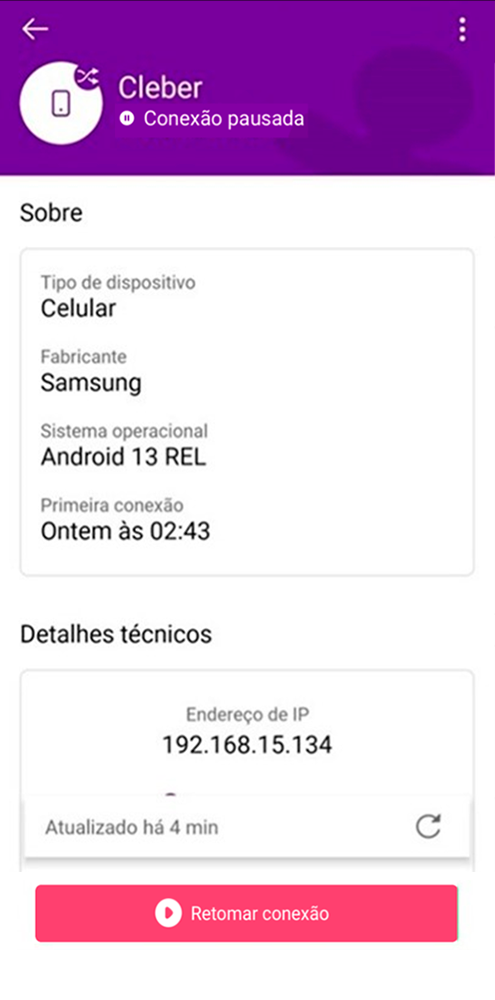
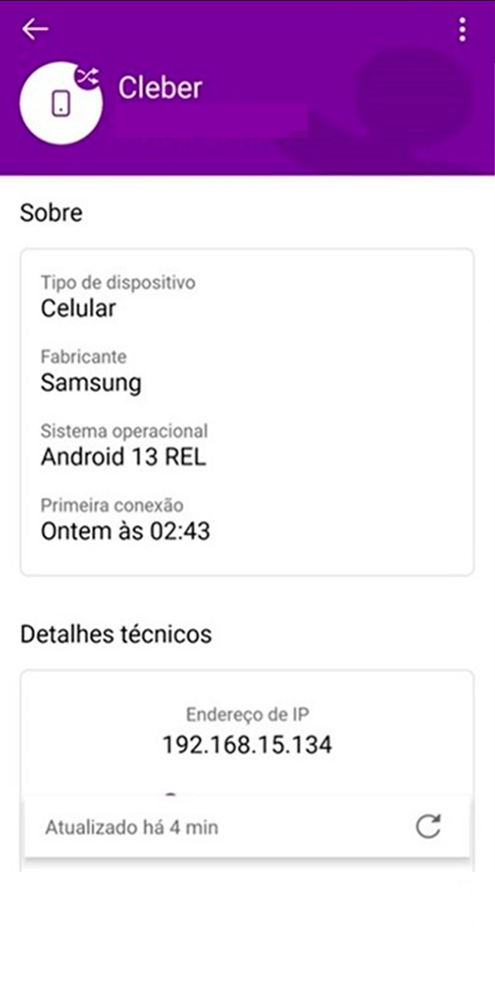
commit ajustes telas 61, 65 e 66.

Changed region(s): [[0.0606, 0.868, 0.9394, 0.961], [0.2424, 0.093, 0.6061, 0.124]]

diff --git a/course/screens/61/tela.js b/course/screens/61/tela.js
@@ -1,33 +1,36 @@
 function init() {
-    // refers
-    let mascara = document.querySelector(".mascara_balao");
-    let balao = document.querySelector(".balao.b0");
-    let btFecharBalao = document.querySelector(".balao button.fechar");
+  // refers
+  let mascara = document.querySelector(".mascara_balao");
+  let balao = document.querySelector(".balao.b0");
+  let btFecharBalao = document.querySelector(".balao button.fechar");
 
-    let destaques = document.querySelectorAll(".destaque");
+  let destaques = document.querySelectorAll(".foco");
 
-    // balloon events
-    let showDestaque = (dest) => {
-      destaques[dest].style.display = "block";
-    }
+  // balloon events
+  let showDestaque = (dest) => {
+    destaques[dest].classList.add('pulse')
+  }
 
-    let handleCloseBalloon = (e) => {
-      e.target.parentNode.style.display = "none";
-      mascara.style.display = "none";
+  showDestaque(0);
 
-      showDestaque(1);
-    }
-    btFecharBalao.addEventListener("click", handleCloseBalloon);
+  let handleCloseBalloon = (e) => {
+    e.target.parentNode.style.display = "none";
+    mascara.style.display = "none";
+    destaques[1].style.cursor = 'pointer'
 
-    // destaque events
-    let handleAvancar = (e) => {
-      screen.next();
-    }
-    destaques[1].addEventListener("click", handleAvancar);
-    
-    // Animation
-    let tl = new gsap.timeline();
-    tl.fromTo(mascara, .8, { opacity: 0 }, { opacity: 1, delay: 3 });
-    tl.fromTo(destaques[0], .2, { opacity: 1 }, { opacity: 0 });
-    tl.fromTo(balao, .8, { opacity: 0 }, { opacity: 1 });
+    showDestaque(1);
+  }
+  btFecharBalao.addEventListener("click", handleCloseBalloon);
+
+  // destaque events
+  let handleAvancar = (e) => {
+    screen.next();
+  }
+  destaques[1].addEventListener("click", handleAvancar);
+
+  // Animation
+  let tl = new gsap.timeline({ onComplete: function () { destaques[0].classList.remove('pulse'); } });
+
+  tl.fromTo(mascara, .8, { opacity: 0 }, { opacity: 1, delay: 3 });
+  tl.fromTo(balao, .8, { opacity: 0 }, { opacity: 1 });
 }

diff --git a/course/screens/65/tela.js b/course/screens/65/tela.js
@@ -1,32 +1,32 @@
 function init() {
-    // refers
-    let mascara = document.querySelector(".mascara_balao");
-    let balao = document.querySelector(".balao.b0");
-    let btFecharBalao = document.querySelector(".balao button.fechar");
+  // refers
+  let mascara = document.querySelector(".mascara_balao");
+  let balao = document.querySelector(".balao.b0");
+  let btFecharBalao = document.querySelector(".balao button.fechar");
 
-    let destaque = document.querySelector(".destaque.d0");
+  let destaque = document.querySelector(".foco");
 
-    // balloon events
-    let showDestaque = _ => {
-      destaque.style.display = "block";
-    }
+  // balloon events
+  let showDestaque = _ => {
+    destaque.classList.add('pulse')
+  }
 
-    let handleCloseBalloon = (e) => {
-      e.target.parentNode.style.display = "none";
-      mascara.style.display = "none";
+  let handleCloseBalloon = (e) => {
+    e.target.parentNode.style.display = "none";
+    mascara.style.display = "none";
 
-      showDestaque();
-    }
-    btFecharBalao.addEventListener("click", handleCloseBalloon);
+    showDestaque();
+  }
+  btFecharBalao.addEventListener("click", handleCloseBalloon);
 
-    // destaque events
-    let handleAvancar = (e) => {
-      screen.next();
-    }
-    destaque.addEventListener("click", handleAvancar);
-    
-    // Animation
-    let tl = new gsap.timeline();
-    tl.fromTo(mascara, .8, { opacity: 0 }, { opacity: 1, delay: .5 });
-    tl.fromTo(balao, .8, { opacity: 0 }, { opacity: 1 });
+  // destaque events
+  let handleAvancar = (e) => {
+    screen.next();
+  }
+  destaque.addEventListener("click", handleAvancar);
+
+  // Animation
+  let tl = new gsap.timeline();
+  tl.fromTo(mascara, .8, { opacity: 0 }, { opacity: 1, delay: .5 });
+  tl.fromTo(balao, .8, { opacity: 0 }, { opacity: 1 });
 }

diff --git a/course/screens/61/tela.css b/course/screens/61/tela.css
@@ -20,19 +20,20 @@
     height: 8%;
 }
 
-.destaque.d0 {
-    left: 44%;
-    top: 12%;
-    width: 40%;
-    height: 4%;
-    border-color: #fff;
+.foco {
     cursor: default;
 }
 
-.destaque.d1 {
-    display: none;
-    left: 50%;
-    top: 91.3%;
-    width: 88%;
-    height: 8%;
+.foco.f0 {
+    top: 12%;
+    left: 43.9%;
+    width: 16.5rem;
+    height: 3rem;
+    background-image: url(../../img/btn_print_conexao_pausada.png);
+}
+
+.foco.f1 {
+    top: 91.4%;
+    width: 36.5rem;
+    background-image: url(../../img/btn_print_retomar_conexao.png);
 }

diff --git a/course/screens/66/tela.js b/course/screens/66/tela.js
@@ -1,11 +1,11 @@
 function init() {
   // refers
-  let destaque = document.querySelector(".destaque.d0");
+  let destaque = document.querySelector(".foco");
   let btnArrow = document.querySelector("#btn_arrow");
 
   // balloon events
   let showAvancar = (e) => {
-    gsap.to(destaque, .8, { opacity: 0 });
+    destaque.classList.remove('pulse')
     gsap.to(btnArrow, .8, { display: "block", opacity: 1 });
   }
   destaque.addEventListener("click", showAvancar);

diff --git a/course/screens/66/tela.css b/course/screens/66/tela.css
@@ -7,11 +7,11 @@
     background-image: url(../66/img/bg.png);
 }
 
-.destaque.d0 {
-    left: 50%;
-    top: 58%;
-    width: 86%;
-    height: 83%;
+.foco {
+    top: 58.5%;
+    width: 42rem;
+    height: 71rem;
+    background-image: url(../../img/btn_dispositivos_todos.png);
 }
 
 #btn_arrow {
@@ -21,5 +21,6 @@
     left: 84%;
     width: 7rem;
     height: 7rem;
+    z-index: 3;
     background-image: url(../../img/bt_avancar.png);
 }

diff --git a/course/css/geral.css b/course/css/geral.css
@@ -86,10 +86,11 @@ button#btn_arrow {
   left: 0;
   width: 100%;
   height: 100%;
+  z-index: 4;
 }
 
 .hole {
-  z-index: 3;
+  z-index: 5;
   box-shadow: 0 0 0 99999px rgba(44, 5, 59, .9);
 }
 
@@ -97,7 +98,7 @@ button#btn_arrow {
   display: flex;
   justify-content: center;
   align-items: center;
-  z-index: 4;
+  z-index: 5;
   min-height: 10%;
   border-radius: 1.5rem;
   background: #78009d;

diff --git a/course/screens/65/tela.css b/course/screens/65/tela.css
@@ -20,11 +20,10 @@
     height: 12%;
 }
 
-.destaque.d0 {
-    display: none;
-    left: 13.5%;
-    top: 81%;
-    width: 14.5%;
-    height: 12%;
-    border-color: #fff;
+.foco {
+    top: 79.8%;
+    left: 13.2%;
+    width: 5.4rem;
+    height: 5rem;
+    background-image: url(../../img/btn_print_icone_todos.png);
 }

diff --git a/course/screens/66/tela.html b/course/screens/66/tela.html
@@ -4,7 +4,7 @@
 <!-- Tela Html -->
 <div class="abs content divImg">
 
-    <div class="destaque d0 abs pulse"></div>
+    <div class="divImg foco pulse"></div>
 
     <button id="btn_arrow" class="pulse abs divImg" onclick="modulos.end(66);" alt=""></button>
 </div>

diff --git a/course/screens/61/tela.html b/course/screens/61/tela.html
@@ -13,8 +13,8 @@
         </div>
     </div>
 
-    <div class="destaque d0 abs pulse"></div>
-    <div class="destaque d1 abs pulse"></div>
+    <div class="divImg foco f0"></div>
+    <div class="divImg foco f1"></div>
 </div>
 
 <!-- Tela Js -->

diff --git a/course/screens/65/tela.html b/course/screens/65/tela.html
@@ -13,7 +13,7 @@
         </div>
     </div>
 
-    <div class="destaque d0 abs pulse"></div>
+    <div class="divImg foco"></div>
 </div>
 
 <!-- Tela Js -->

diff --git a/course/js/main.js b/course/js/main.js
@@ -1,6 +1,6 @@
 //Numero de telas
 var n_telas = 1;
-var c_screen = 60;
+var c_screen = 66;
 
 const container = $("#loaded_content");
 
